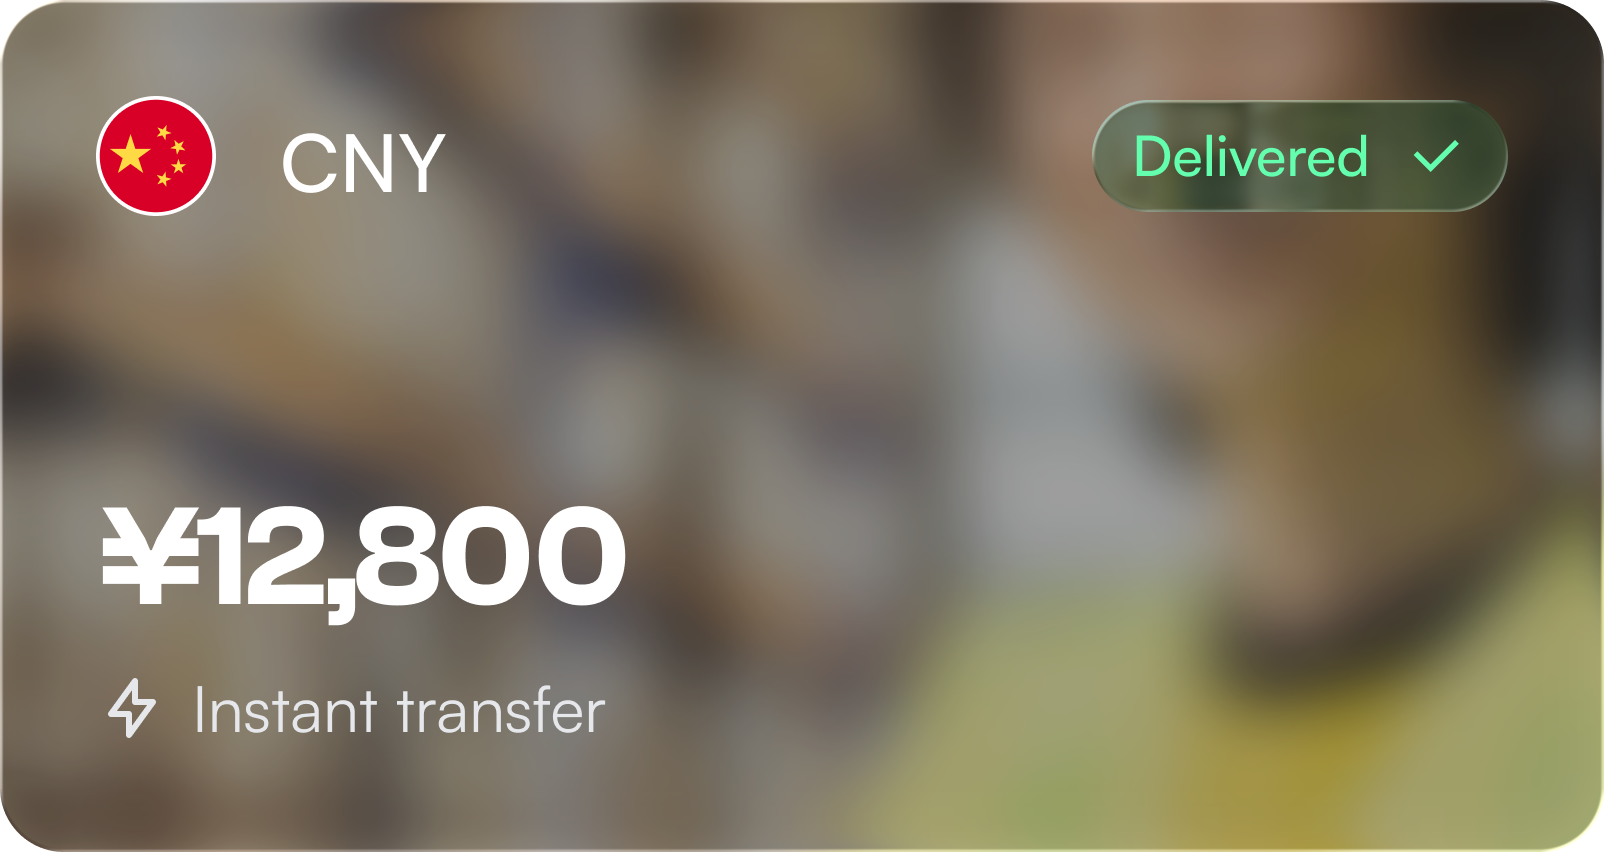
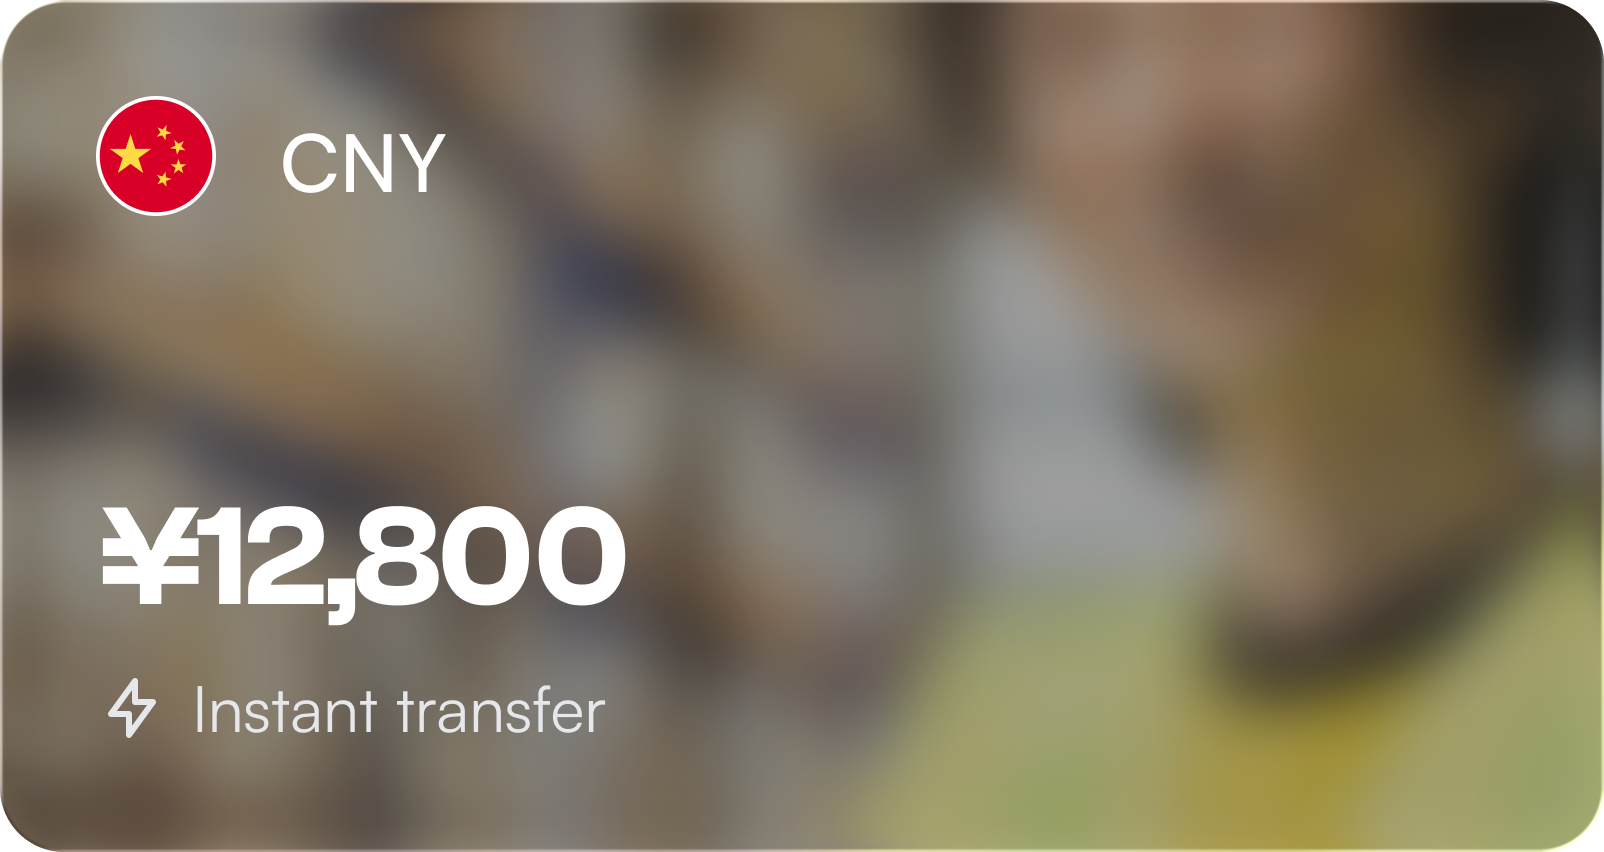
button click action

Changed region(s): [[0.6546, 0.0915, 0.9663, 0.2746]]

diff --git a/app/components/FlowingArrow.tsx b/app/components/FlowingArrow.tsx
@@ -112,7 +112,9 @@ function updateArrow(
   arrow.dashes.forEach(({ el, midDist }) => {
     el.setAttribute("fill", midDist <= dist ? ACCENT : BASE);
   });
-  arrow.head.setAttribute("stroke", progress > 0.99 ? ACCENT : BASE);
+  const lastDash = arrow.dashes[arrow.dashes.length - 1];
+  const allLit = lastDash ? dist >= lastDash.midDist : progress > 0;
+  arrow.head.setAttribute("stroke", allLit ? ACCENT : BASE);
 }
 
 function teardownArrow(arrow: ArrowState) {
@@ -162,20 +164,21 @@ export default function FlowingArrow() {
       const womanColEl = document.getElementById("fp-woman-col");
       const frameEl = document.getElementById("fp-frame");
       const convertingTextEl = document.getElementById("fp-converting-text");
-      const row3El = document.getElementById("fp-row3");
       const manColEl = document.getElementById("fp-man-col");
       const text1El = document.getElementById("fp-text1");
       const text3El = document.getElementById("fp-text3");
       const sendBtnEl = document.getElementById("fp-send-btn");
       const cursorEl = document.getElementById("fp-cursor");
-      if (!womanColEl || !frameEl || !convertingTextEl || !row3El || !manColEl || !text1El || !text3El || !sendBtnEl || !cursorEl) return;
+      const deliveredEl = document.getElementById("fp-delivered");
+      if (!womanColEl || !frameEl || !convertingTextEl || !manColEl || !text1El || !text3El || !sendBtnEl || !cursorEl || !deliveredEl) return;
 
       [text1El, convertingTextEl, text3El].forEach(el => {
         el.style.transition = "color 0.8s ease";
       });
-      frameEl.style.transition = "transform 0.5s cubic-bezier(0.175, 0.885, 0.32, 1.275)";
+      frameEl.style.opacity = "0";
       sendBtnEl.style.transition = "all 0.3s ease";
       cursorEl.style.transition = "all 0.3s ease";
+      gsap.set(deliveredEl, { opacity: 0, y: -16 });
 
       function rel(el: Element) {
         const r = el.getBoundingClientRect();
@@ -193,8 +196,6 @@ export default function FlowingArrow() {
 
       const womanCol = rel(womanColEl);
       const frame = rel(frameEl);
-      const convertingText = rel(convertingTextEl);
-      const row3 = rel(row3El);
       const manCol = rel(manColEl);
 
       const a1sx = womanCol.right - womanCol.w * 0.25; 
@@ -228,6 +229,7 @@ export default function FlowingArrow() {
 
       const baseColor = "#78716C";
       const activeColor = "#FFFFFF";
+      let deliveredIn = false;
 
       st = ScrollTrigger.create({
         trigger: container,
@@ -255,7 +257,19 @@ export default function FlowingArrow() {
             sendBtnEl.style.color = "#000000";
           }
 
-          frameEl.style.transform = p >= 0.5 ? "scale(1.15)" : "scale(1)";
+          frameEl.style.opacity = String(Math.min(1, Math.max(0, (p - 0.28) / 0.22)));
+
+          if (p >= 0.93 && !deliveredIn) {
+            deliveredIn = true;
+            gsap.fromTo(deliveredEl,
+              { opacity: 0, y: -16 },
+              { opacity: 1, y: 0, duration: 0.6, ease: "back.out(2.5)" }
+            );
+          } else if (p < 0.93 && deliveredIn) {
+            deliveredIn = false;
+            gsap.killTweensOf(deliveredEl);
+            gsap.set(deliveredEl, { opacity: 0, y: -16 });
+          }
 
           text1El.style.color = p < 0.48 ? activeColor : baseColor;
           convertingTextEl.style.color = (p >= 0.48 && p < 0.95) ? activeColor : baseColor;

diff --git a/app/page.tsx b/app/page.tsx
@@ -40,7 +40,8 @@ export default function Home() {
                   height={280}
                 />
                 <button
-                  id="fp-send-btn" disabled
+                  id="fp-send-btn"
+                  disabled
                   className="mt-3 w-full py-3 bg-white/10 backdrop-blur-xl border border-white/20 rounded-2xl text-white font-bold text-lg cursor-pointer shadow-[0_8px_32px_0_rgba(0,0,0,0.37)] transition-all duration-300 hover:bg-white/20 hover:scale-[1.02] active:scale-[0.98]"
                 >
                   Send
@@ -85,7 +86,7 @@ export default function Home() {
 
         {/* Connecting element */}
         <div className="pl-32">
-          <div className="flex gap-16 max-w-135 my-60">
+          <div className="flex gap-10 max-w-145 my-60">
             <div id="fp-converting-text" className="w-80">
               <h2 className="text-2xl font-black mb-2 leading-[1.4]">
                 ...converted at live interbank rates...
@@ -122,12 +123,20 @@ export default function Home() {
               height={580}
             />
             <div className="absolute inset-0 flex items-center justify-center">
-              <Image
-                src={ManFrameImg}
-                alt="card showing chinese business"
-                width={400}
-                height={280}
-              />
+              <div className="w-100 mx-auto h-70 relative">
+                <Image
+                  src={ManFrameImg}
+                  alt="card showing chinese business"
+                  width={400}
+                  height={280}
+                />
+                <div
+                  id="fp-delivered"
+                  className="absolute top-5 right-5 px-4 py-1.5 text-sm font-semibold rounded-full backdrop-blur-md bg-accent/15 border border-accent/40 text-accent z-20"
+                >
+                  Delivered ✓
+                </div>
+              </div>
             </div>
             <div className="absolute px-10 bottom-0 left-0 w-full pb-10 bg-linear-to-t from-black/80 to-transparent rounded-2xl">
               <div className="flex items-center gap-2 mb-4">
